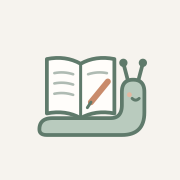
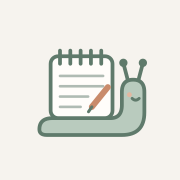
Spiral-bound notebook for Selma's shell; US date format

Changed region(s): [[0.25, 0.25, 0.6667, 0.6667]]

diff --git a/app.js b/app.js
@@ -69,7 +69,7 @@ function keyDate(key) {
   const [y, m, d] = key.split('-').map(Number);
   return new Date(y, m - 1, d);
 }
-const longDate = (key) => keyDate(key).toLocaleDateString('en-GB', { weekday: 'long', day: 'numeric', month: 'long' });
+const longDate = (key) => keyDate(key).toLocaleDateString('en-US', { weekday: 'long', day: 'numeric', month: 'long' });
 const nowHHMM = () => new Date().toTimeString().slice(0, 5);
 // Late runs from the nudge until early morning, so work past midnight still counts as late.
 const isLate = () => nowHHMM() >= NUDGE_AT || nowHHMM() < '05:00';

diff --git a/index.html b/index.html
@@ -19,7 +19,7 @@
   <header class="masthead">
     <a class="home-link" href="../selma/">← All Selma journals</a>
     <div class="brand">
-      <img class="selma" src="selma-work.svg" width="56" height="56" alt="Selma the Snail, with an open notebook for a shell">
+      <img class="selma" src="selma-work.svg" width="56" height="56" alt="Selma the Snail, with a spiral notebook for a shell">
       <div>
         <h1>Selma</h1>
         <p>a slow work journal</p>
